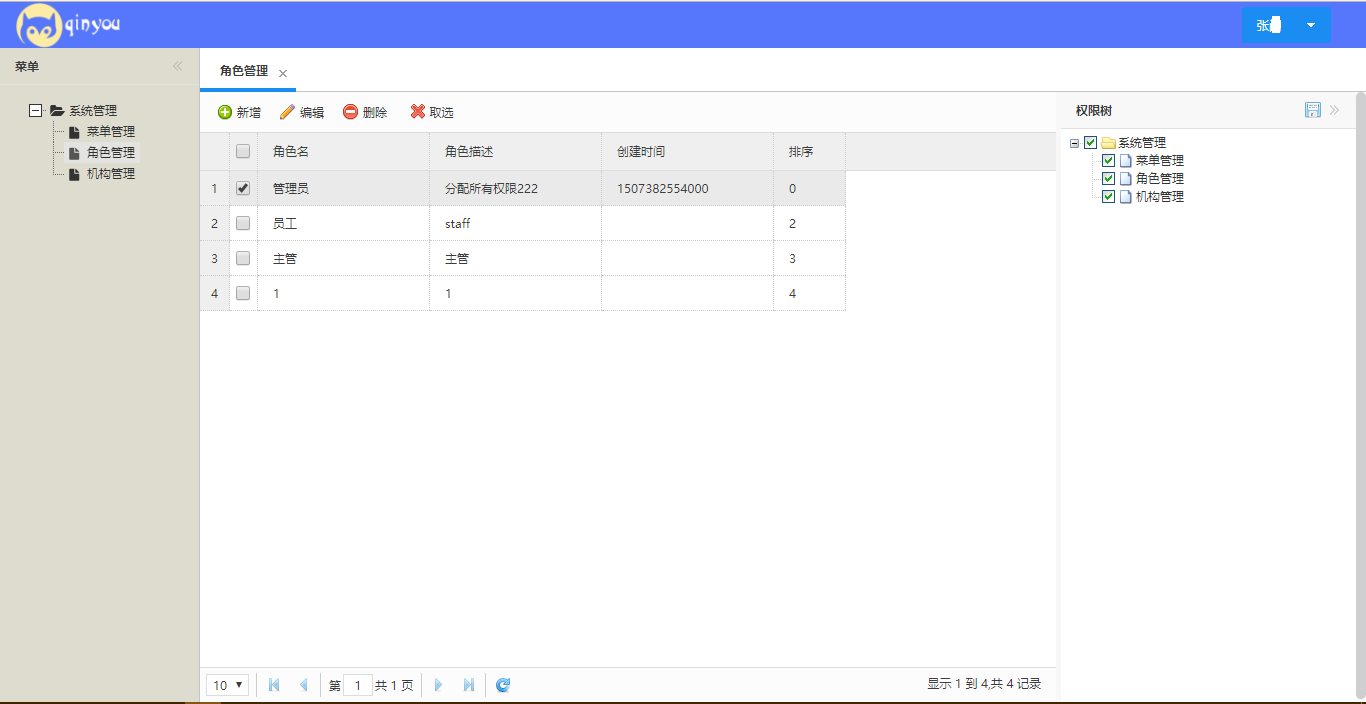
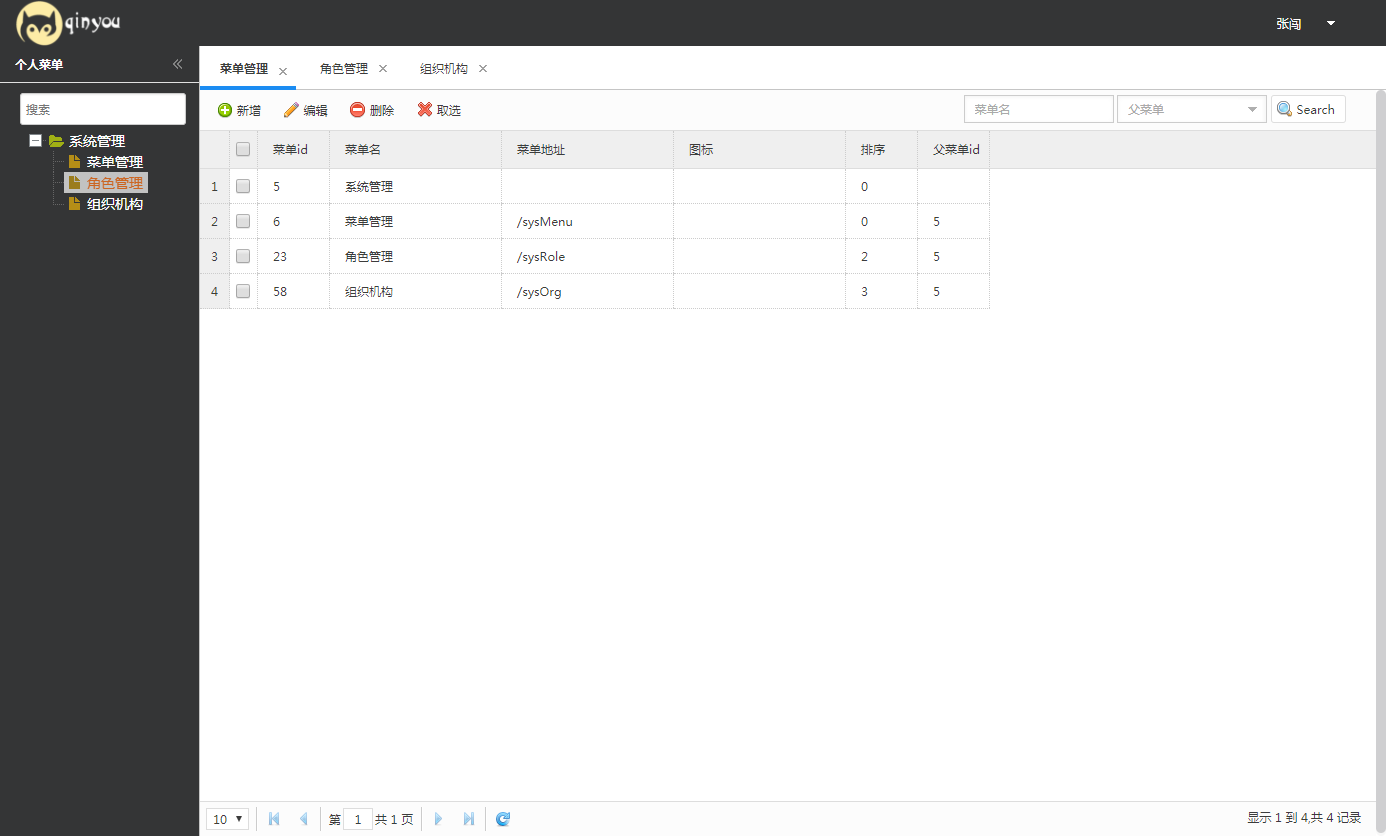
edit

diff --git a/WebRoot/WEB-INF/views/system/sysOrg.html b/WebRoot/WEB-INF/views/system/sysOrg.html
@@ -1,5 +1,7 @@
 <#include "/WEB-INF/views/common/common.html"/>
 <@layout>
+<link rel="stylesheet" href="${ctx!}/res/ztree/css/bootstrapStyle/bootstrapStyle.css">
+<script src="${ctx!}/res/ztree/js/jquery.ztree.all.min.js"></script>
 <!-- 此处定义 页面单独的样式和 js -->
 </head>
 <body>
@@ -7,8 +9,7 @@
 		var url;
 		function newSysOrg() {
 			/* .dialog('center')  横向纵向正中央*/
-			$('#dlg').dialog('open') 
-					.dialog('setTitle', '新建组织');
+			$('#dlg').dialog('open').dialog('setTitle', '新建组织');
 			$('#fm').form('clear');
 			var row = $('#dg').treegrid('getSelected');
 
@@ -19,20 +20,22 @@
 
 			url = '${ctx!}/sysOrg/add';
 		}
+
 		function editSysOrg() {
 			var row = $('#dg').treegrid('getSelected');
 			if (row) {
 				/* .dialog('center')  横向纵向正中央*/
-				$('#dlg').dialog('open').dialog('setTitle',
-						'编辑组织');
+				$('#dlg').dialog('open').dialog('setTitle', '编辑组织');
 				$('#fm').form('clear');
 				$('#fm').form('load', row);
-				$("#pidName").textbox("setValue", $("#dg").treegrid('getParent',row.id).orgName);  // 只是显示一下
+				$("#pidName").textbox("setValue", $("#dg").treegrid('getParent', row.id).orgName);
+				// 只是显示一下
 				url = '${ctx!}/sysOrg/update?id=' + row.id;
 			} else {
 				$.messager.alert('警告', '修改之前请先选择一条记录!', 'warning');
 			}
 		}
+
 		function saveSysOrg() {
 			$('#fm').form('submit', {
 				url : url,
@@ -42,16 +45,19 @@
 				success : function(result) {
 
 					if (result.indexOf("成功") >= 0) {
-						successMsgPretty(null,result);
+						successMsgPretty(null, result);
 
-						$('#dlg').dialog('close'); // close the dialog
-						$('#dg').treegrid('reload'); // reload the user data
+						$('#dlg').dialog('close');
+						// close the dialog
+						$('#dg').treegrid('reload');
+						// reload the user data
 					} else {
-						errMsgPretty(null,result);
+						errMsgPretty(null, result);
 					}
 				}
 			});
 		}
+
 		function deleteSysOrg() {
 			var row = $('#dg').datagrid('getSelected');
 			if (row) {
@@ -61,11 +67,12 @@
 							id : row.id
 						}, function(result) {
 							if (result.indexOf("成功") >= 0) {
-								successMsgPretty(null,result);
-								$('#dg').treegrid('reload'); // reload the user data
-                                $('#dg').datagrid('clearSelections');
+								successMsgPretty(null, result);
+								$('#dg').treegrid('reload');
+								// reload the user data
+								$('#dg').datagrid('clearSelections');
 							} else {
-								errMsgPretty(null,result);
+								errMsgPretty(null, result);
 							}
 
 						}, 'text');
@@ -75,62 +82,85 @@
 		}
 	</script>
 
-	<table id="dg" class="easyui-treegrid" url="${ctx!}/sysOrg/query"
-		toolbar="#tb" rownumbers="true" border="false" fit="true"
-		singleSelect="true"
-		 idField='id' ,
-         treeField='orgName'
-         data-options="onDblClickRow:treegridCancelSelect"
-        >
-		<thead>
-			<tr>
-				<th data-options="field:'ck',checkbox:true"></th>
-				<th field="orgName" width="150">名称</th>
-				<th field="sort" width="50">排序</th>
-			</tr>
-		</thead>
-	</table>
+	<div class="easyui-layout" class="easyui-layout" fit="true"     >
+		<div  data-options="region:'west' "   
+		    split="true" border="false" title="机构"
+		    style="width: 200px;padding:10px 0 0 20px" >
+			<ul id="allOrgTree" class="ztree"></ul>
+		</div>
+		<div  data-options="region:'center' " 
+		split="true" border="false"   fit="true"   >
+			<table id="dg" class="easyui-datagrid" url="${ctx!}/sysOrg/query"
+			rownumbers="true" border="false" fit="true" pagination="true"
+			toolbar="#tb" >
+				<thead>
+					<tr>
+						<th data-options="field:'ck',checkbox:true"></th>
+						<th field="orgName" width="150">名称</th>
+						<th field="sort" width="50">排序</th>
+					</tr>
+				</thead>
+			</table>
+			<div id="tb">
+				<a href="#" class="easyui-linkbutton" iconCls="icon-add" plain="true"
+				onclick="newSysOrg()">新增</a>
+				<a href="#" class="easyui-linkbutton"
+				iconCls="icon-edit" plain="true" onclick="editSysOrg()">编辑</a>
+				<a href="#" class="easyui-linkbutton  " iconCls="icon-remove"
+				plain="true" onclick="deleteSysOrg()">删除</a>
 
-	<div id="dlg" class="easyui-dialog" style="width: 400px; top:30px " closed="true"   
-		buttons="#dlg-buttons">
+			</div>
+		</div>
+	</div>
+
+	<div id="dlg" class="easyui-dialog" style="width: 400px; top:30px " closed="true"
+	buttons="#dlg-buttons">
 		<form id="fm" method="post" novalidate
-			style="margin: 0; padding: 20px 50px">
+		style="margin: 0; padding: 20px 50px">
 			<input type="hidden" name="id" />
-			
+
 			<div style="margin-bottom: 10px">
-				<input type="hidden" id="pid" name="pid" /> <input name="pidName"
-					id="pidName" class="easyui-textbox" label="父级:"
-					disabled="disabled" style="width: 100%">
+				<input type="hidden" id="pid" name="pid" />
+				<input name="pidName"
+				id="pidName" class="easyui-textbox" label="父级:"
+				disabled="disabled" style="width: 100%">
 			</div>
 
 			<div style="margin-bottom: 10px">
 				<input name="orgName" class="easyui-textbox" required="true"
-					label="组织名称:" style="width: 100%">
+				label="组织名称:" style="width: 100%">
 			</div>
-		 
+
 			<div style="margin-bottom: 10px">
 				<input name="sort" class="easyui-numberbox" label="排序:"
-					style="width: 100%">
+				style="width: 100%">
 			</div>
 		</form>
 	</div>
 
 	<div id="dlg-buttons">
 		<a href="javascript:void(0)" class="easyui-linkbutton c6"
-			iconCls="icon-ok" onclick="saveSysOrg()" style="width: 90px">保存</a>
+		iconCls="icon-ok" onclick="saveSysOrg()" style="width: 90px">保存</a>
 		<a href="javascript:void(0)" class="easyui-linkbutton"
-			iconCls="icon-cancel" onclick="javascript:$('#dlg').dialog('close')"
-			style="width: 90px">取消</a>
+		iconCls="icon-cancel" onclick="javascript:$('#dlg').dialog('close')"
+		style="width: 90px">取消</a>
 	</div>
-
-	<div id="tb">
-		<a href="#" class="easyui-linkbutton" iconCls="icon-add" plain="true"
-			onclick="newSysOrg()">新增</a>
-	   <a href="#" class="easyui-linkbutton"
-			iconCls="icon-edit" plain="true" onclick="editSysOrg()">编辑</a>
-	    <a href="#" class="easyui-linkbutton  " iconCls="icon-remove"
-			plain="true" onclick="deleteSysOrg()">删除</a>  
+	<script type="text/javascript" charset="utf-8">
+		$(function(){
 			
-	</div>
-	 
+			// 组织树
+			var orgArray; 
+			$.getJSON("${ctx!}/sysOrg/orgQuery",function(data){
+				orgArray = data;
+				//console.log(JSON.stringify(data));
+				var callbackObj = {};
+				callbackObj.onClick = function(event, treeId, treeNode, clickFlag){
+					alert("click: "+treeNode.id+"--"+treeNode.name);
+				};
+				orgTree($("#allOrgTree"),data,false,null,true,callbackObj);
+				
+			});
+		});
+	</script>
+
 	</@layout>

diff --git a/WebRoot/WEB-INF/views/system/main.html b/WebRoot/WEB-INF/views/system/main.html
@@ -5,9 +5,32 @@
 <script src="${ctx!}/res/ztree/js/jquery.ztree.exhide.min.js"></script>
 <style>
     .sideBar{
-       background-color: rgba(76, 175, 80, 0.5);;
+       background-color: #343536;
         color:white !important;
     }
+    .theme-header-layout{
+       background-color: #343536;
+    }
+    
+    .theme-navigate-user-button{
+     background-color: #343536 !important;
+    }
+    
+    
+    .theme-navigate-user-button:hover{
+     background-color: #444 !important;
+    }
+    
+    .node_name{
+      color:white !important;
+    }
+     .curSelectedNode:hover{
+       text-decoration: none !important;
+     }
+    .curSelectedNode>.node_name{
+      color:#f2711c !important;
+    }
+   
 </style>
 </head>
 <body>
@@ -104,7 +127,7 @@
         };
         $("#treeFiltrInput").on("keydown",function(e){
             if (e.keyCode == 13) {
-                alert('enter');
+                //alert('enter');
                 filter();
             }
 

diff --git a/WebRoot/res/js/common.js b/WebRoot/res/js/common.js
@@ -103,6 +103,40 @@ function menuTree(treeObj, treeData, sck, cbk) {
 }
 
 /**
+ * 组织树
+ * @param treeObj
+ * @param treeData
+ * @param sck
+ * @param sl 是否显示线
+ * @param si 是否显示图标
+ * @param cbk 回调函数
+ * @returns
+ */
+function orgTree(treeObj, treeData, sck,sl,si, cbk) {
+	var setting = {
+			view:{
+				showLine:sl==null?false:sl,
+				showIcon:si==null?false:si,
+			},
+			check : {
+				enable : sck
+			},
+			data : {
+				simpleData : {
+					enable : true,
+					idKey : 'id',
+					pIdKey : 'pid',
+					rootPId : null
+				}
+			},
+			callback : cbk
+		};
+
+		var tree = $.fn.zTree.init((treeObj), setting, treeData);
+		return tree;
+}
+
+/**
  * easyui tree 树形数据处理
  */
 var EasyTree = function() {

diff --git a/WebRoot/res/insdep/themes/insdep/insdep_theme_default.css b/WebRoot/res/insdep/themes/insdep/insdep_theme_default.css
@@ -88,7 +88,7 @@ i, cite, em, var, address, dfn {/*斜体*/
 /*修改此处的头部样式*/
 .theme-header-layout
 { height:46px !important; 
-  background: #1b8cf2 url(images/mylogo3.png) left center no-repeat;
+  background: #a5d7a7 url(images/mylogo3.png) left center no-repeat;
 	-moz-background-size:270px 46px; /* 老版本的 Firefox */
 	background-size:270px 46px;
 }

diff --git a/src/per/zc/system/controller/SysOrgController.java b/src/per/zc/system/controller/SysOrgController.java
@@ -1,6 +1,9 @@
 package per.zc.system.controller;
 
+import java.util.ArrayList;
+import java.util.HashMap;
 import java.util.List;
+import java.util.Map;
 
 import com.jfinal.aop.Before;
 import com.jfinal.plugin.activerecord.Db;
@@ -10,24 +13,45 @@ import com.jfinal.plugin.activerecord.tx.Tx;
 import per.zc.common.constant.Constant;
  
 import per.zc.system.model.SysOrg;
+import per.zc.system.model.SysUser;
 import per.zc.util.BaseController;
-import per.zc.util.TreeBuild;
+ 
 
 public class SysOrgController  extends BaseController{
 	
 	public  void index(){
-		 render( "system/sysOrg.html");  // 不可以斜杠开头，会认为 绝对路径
+		 render( "system/sysOrg.html");   
 	}
 	
-	public void query(){
+	public void orgQuery(){
 		List<SysOrg> sysOrgs = SysOrg.dao.find("select * from sys_org order by sort");
-		List<SysOrg> sysOrgTreeGrid = TreeBuild.easyuiOrgTreegridBuild(sysOrgs);
-		renderJson(sysOrgTreeGrid);
+		 
+		SysUser loginUser = getSessionAttr(Constant.SYSTEM_USER);
+		Integer orgId = loginUser.getOrgId();
+		
+		List<Map<String, Object>> maps = new ArrayList<>();
+		for(SysOrg sysOrg : sysOrgs){
+			Map<String, Object> map = new HashMap<>();
+			map.put("id", sysOrg.getId());
+			map.put("pid", sysOrg.getPid());
+			
+			map.put("open", true);   // ztree
+			map.put("state", "open"); // easyui tree
+			
+			map.put("name", sysOrg.getOrgName());  
+			
+		    if (orgId == sysOrg.getId()) {
+		    	map.put("checked", true); // easyui tree
+			}
+			
+		    maps.add(map);
+		}
+		renderJson(maps);
 		
 	}
 	
 	
-	public void add(){
+	public void orgAdd(){
 		SysOrg sysOrg = getBean(SysOrg.class,"");
 		boolean saveFlag = sysOrg.save();
 		if(saveFlag) {
@@ -38,7 +62,7 @@ public class SysOrgController  extends BaseController{
 	}
 	
 	
-	public void  update(){
+	public void  orgUpdate(){
 		
 		SysOrg sysOrg = getBean(SysOrg.class,"");
 		boolean updateFlag = sysOrg.update();
@@ -57,7 +81,7 @@ public class SysOrgController  extends BaseController{
 	 * 2： 当前机构和子组织机构的 人员 orgId 设置为null
 	 */
 	@Before(Tx.class)
-	public void delete(){
+	public void orgDelete(){
 		
 		Integer id =getParaToInt("id");
 		

diff --git a/src/per/zc/system/controller/LoginController.java b/src/per/zc/system/controller/LoginController.java
@@ -100,7 +100,8 @@ public class LoginController  extends BaseController {
 	   
 	   String sql = "SELECT"
 	   		+ " su.*,"
-	   		+ " so.org_name AS orgName"
+	   		+ " so.org_name AS orgName, "
+	   		+ " so.id as orgId "
 	   		+ " FROM sys_user su"
 	   		+ " LEFT JOIN sys_org so ON su.org_id = so.id"
 	   		+ " where username = ? and password = ? and disabled = '0'";
